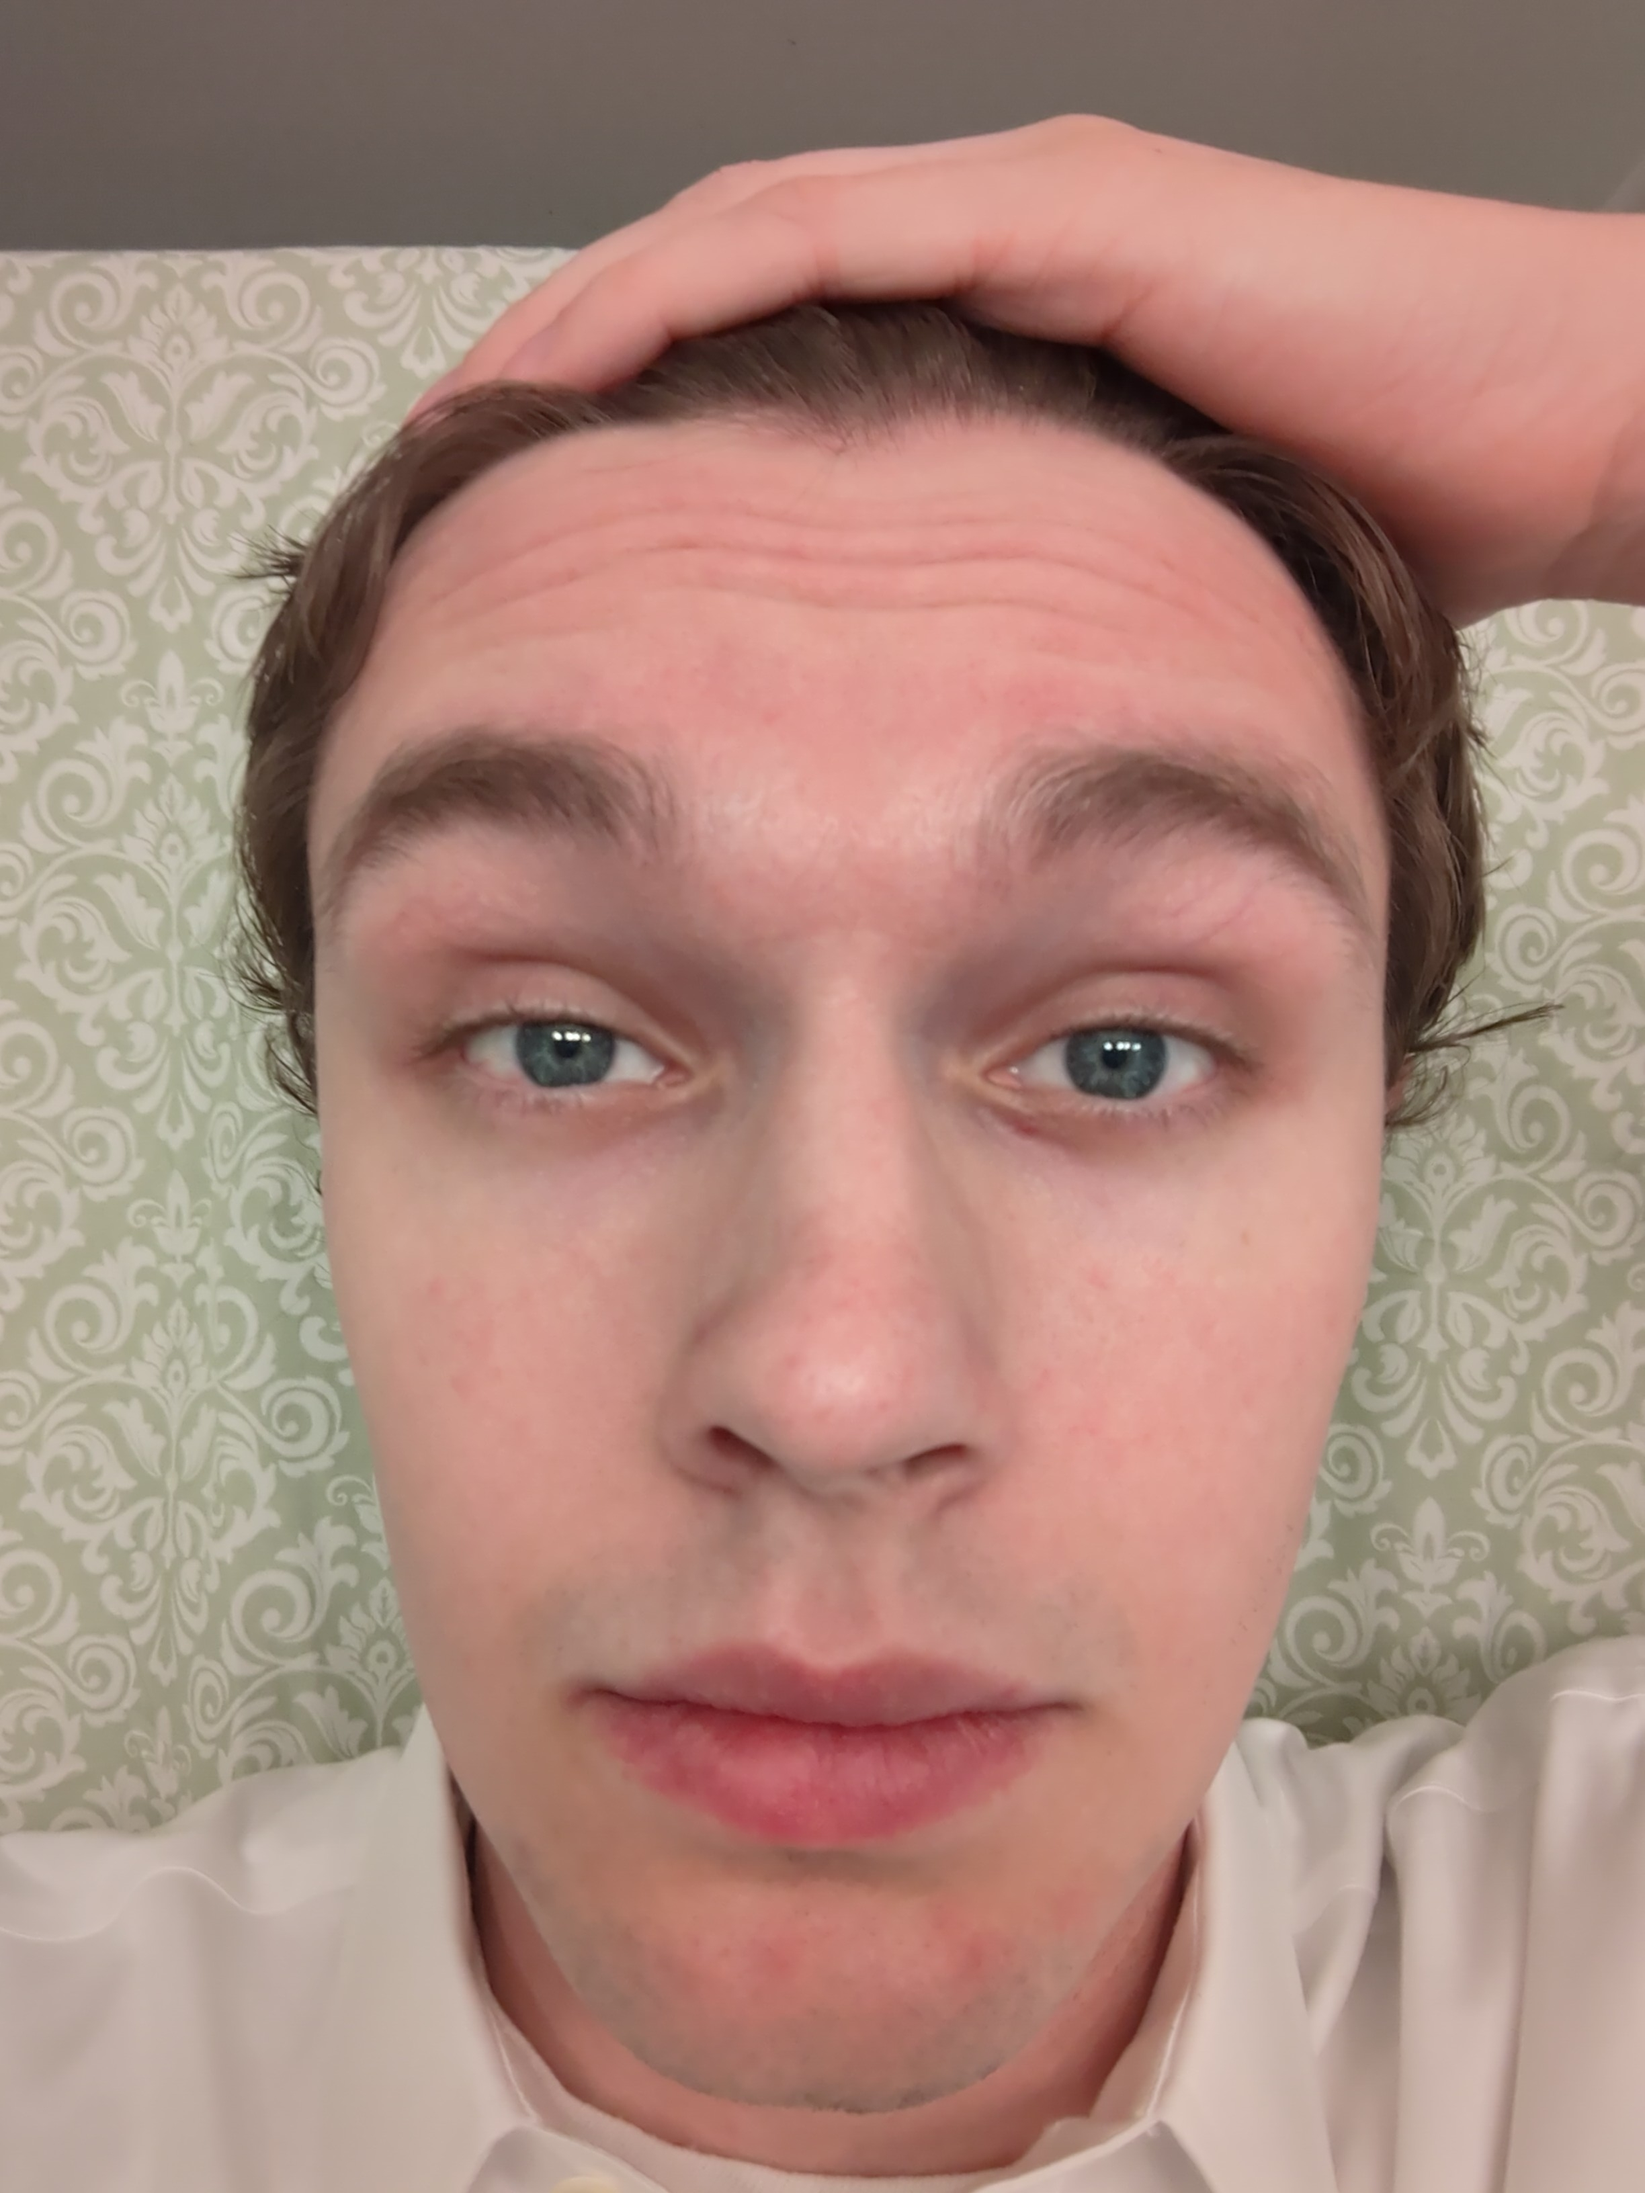
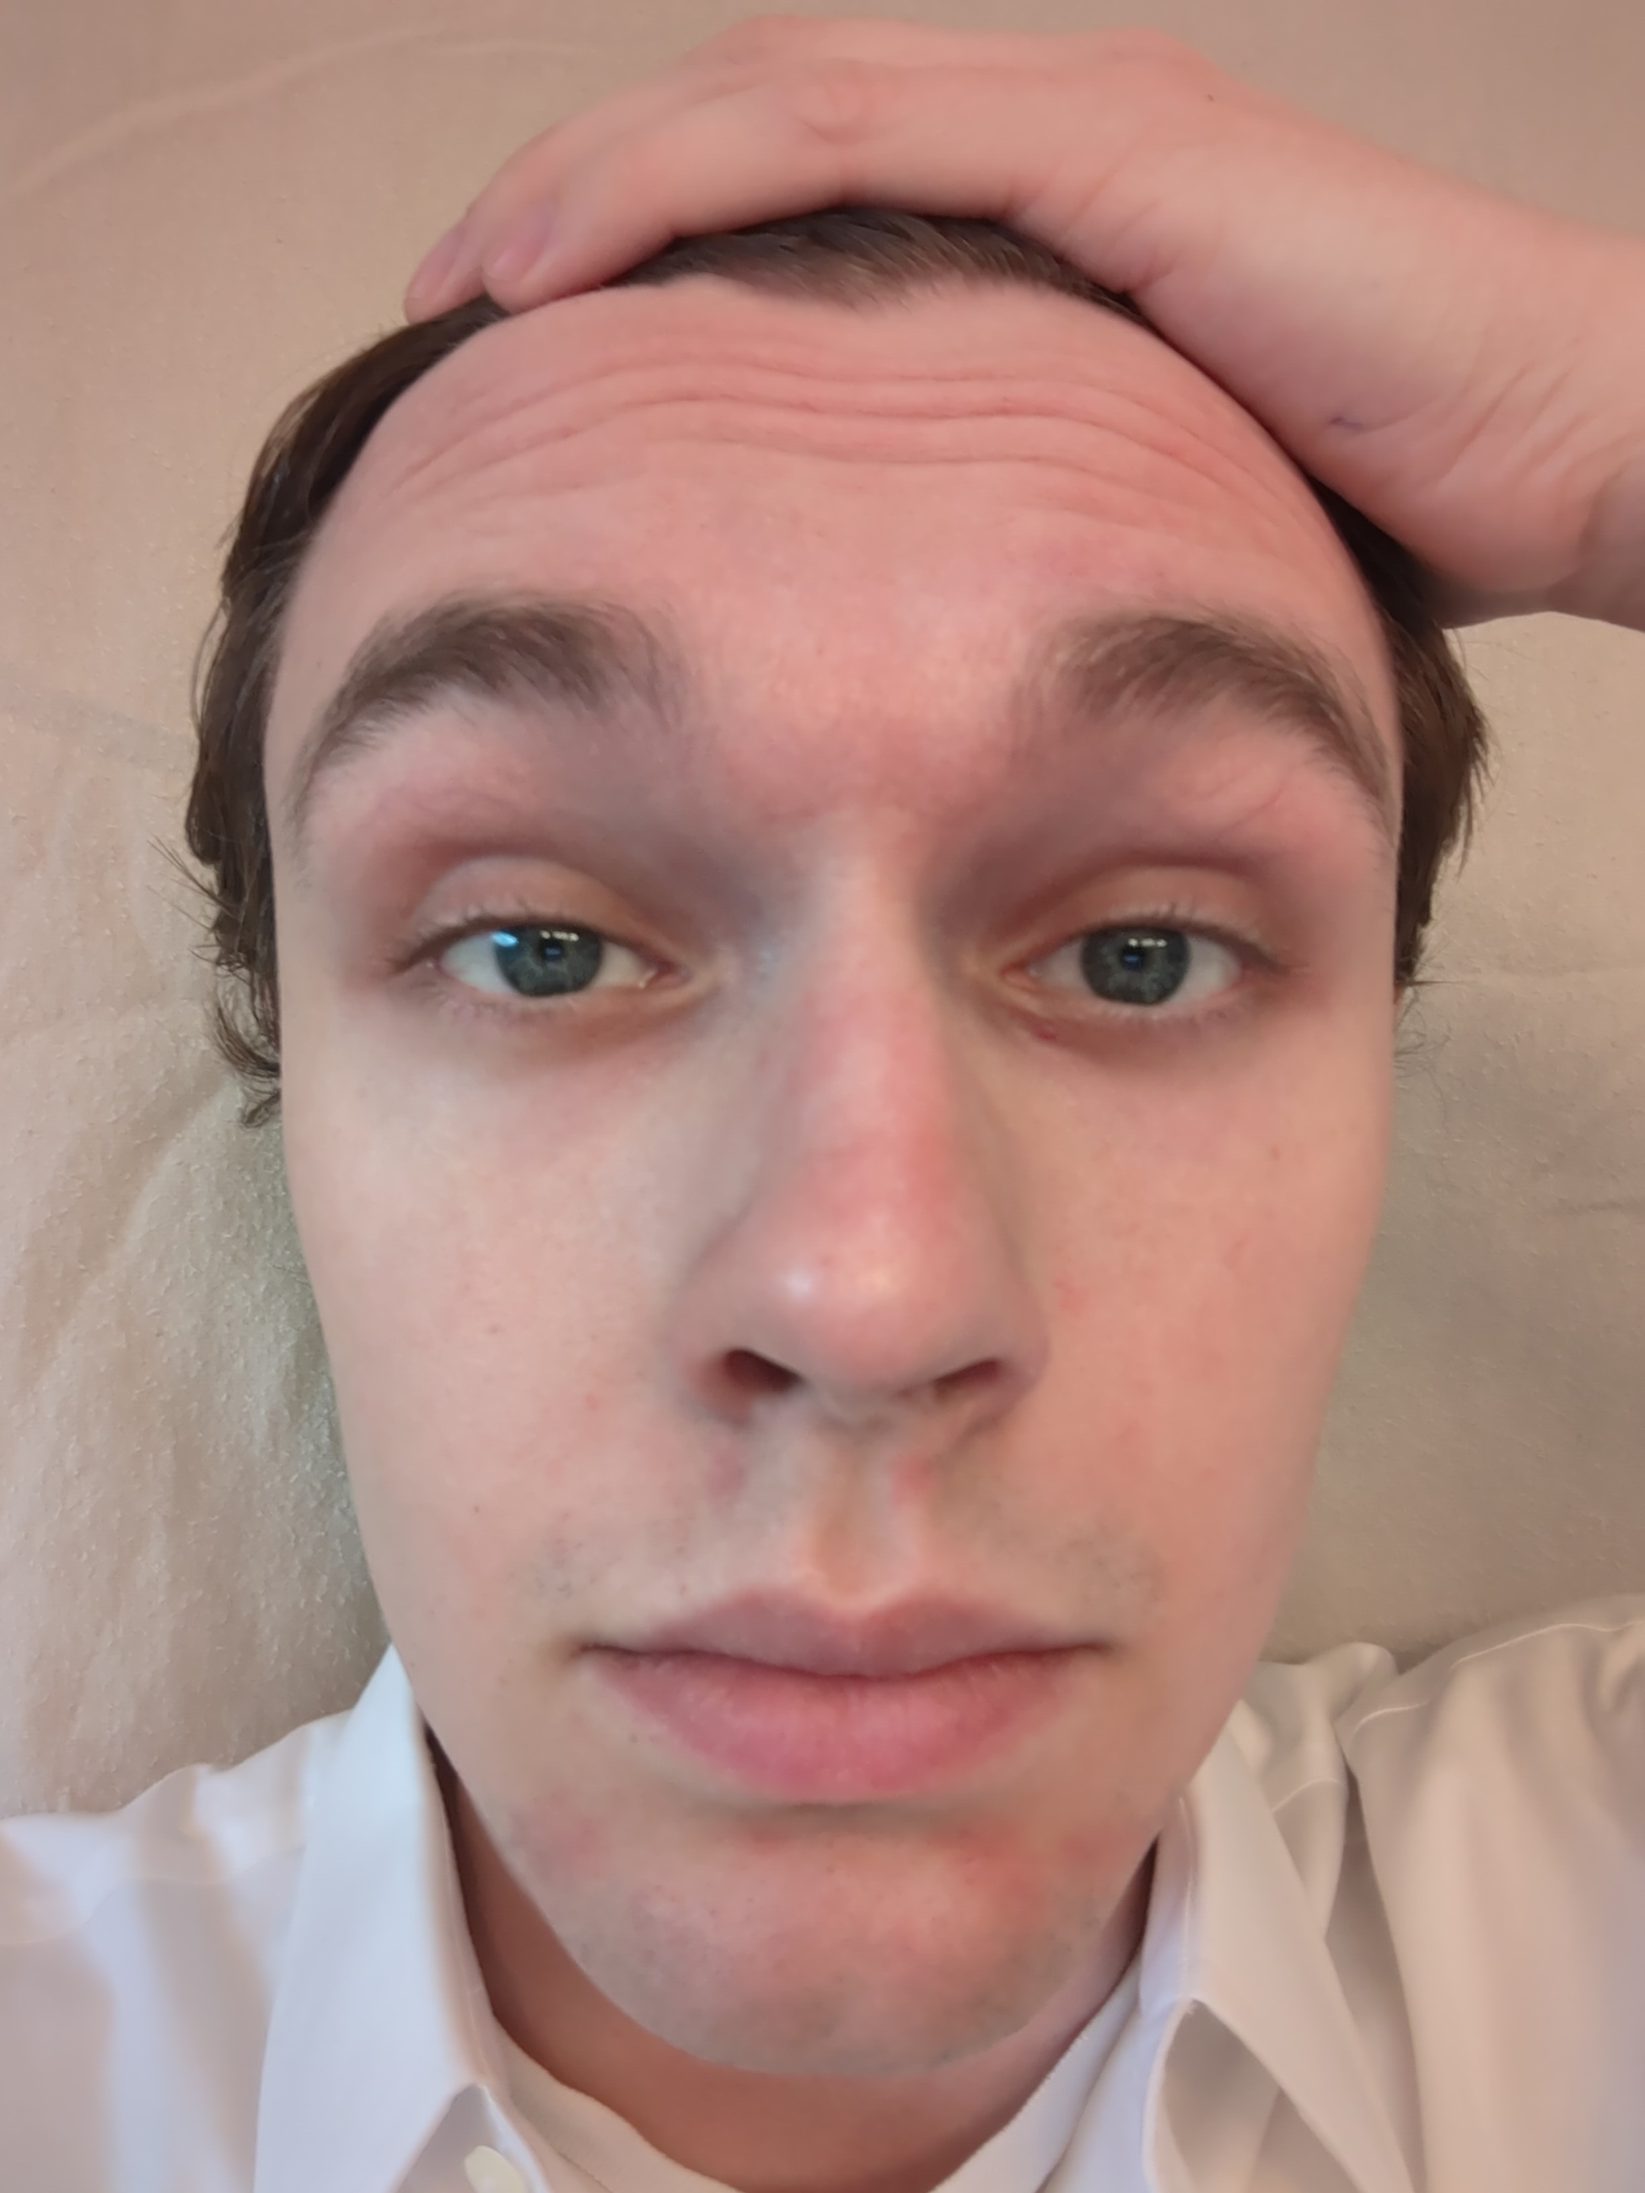
Add images Dr. Lighthall described in her email. Retake eyes-closed, eyebrows-up to get rid of the visible ceiling; split into tightly-closed and gently closed. Delete big-smile because they do big smile with teeth visible. Still only display 7 basic images.

diff --git a/src/screens/PatientUploadScreen.js b/src/screens/PatientUploadScreen.js
@@ -59,9 +59,9 @@ const PatientUploadScreen = ({navigation}) => {
   const images = {
     'at-rest': require('../resources/face-mp-at-rest.jpg'),
     'eyebrows-up': require('../resources/face-mp-eyebrows-up.jpg'),
-    'eyes-closed': require('../resources/face-mp-eyes-closed.jpg'),
+    'eyes-closed': require('../resources/face-mp-eyes-closed-tightly.jpg'),
     'nose-wrinkle': require('../resources/face-mp-nose-wrinkle.jpg'),
-    'big-smile': require('../resources/face-mp-big-smile.jpg'),
+    'big-smile': require('../resources/face-mp-big-smile-teeth-closed.jpg'),
     'lips-puckered': require('../resources/face-mp-lips-puckered.jpg'),
     'lower-teeth-bared': require('../resources/face-mp-lower-teeth-bared.jpg'),
   };
